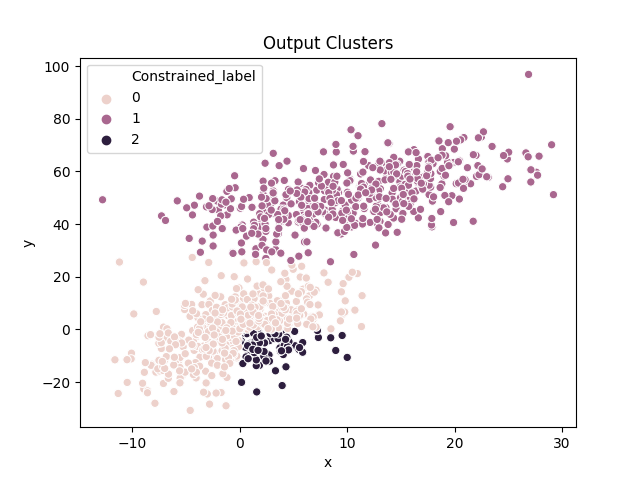
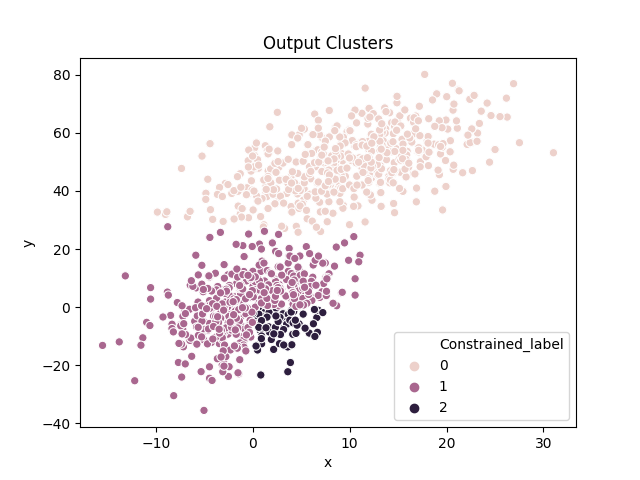
updatedImages

diff --git a/kmeans_implementation.py b/kmeans_implementation.py
@@ -96,10 +96,6 @@ class Kmeans:
         return centroids
 
     def compute_distance(self, X, centroids, condition):
-        X_condition = X[
-            (eval("X[:,0] " + self.condition[0]))
-            & (eval("X[:,1] " + self.condition[1]))
-        ]
         X_normal = X[
             ~(
                 (eval("X[:,0] " + self.condition[0]))
